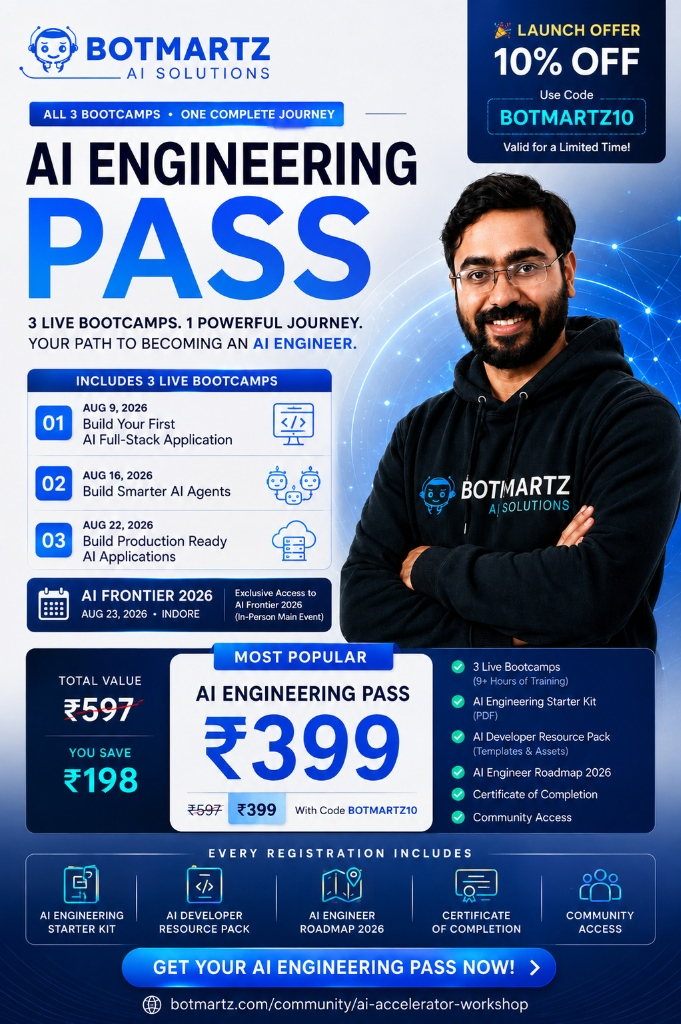
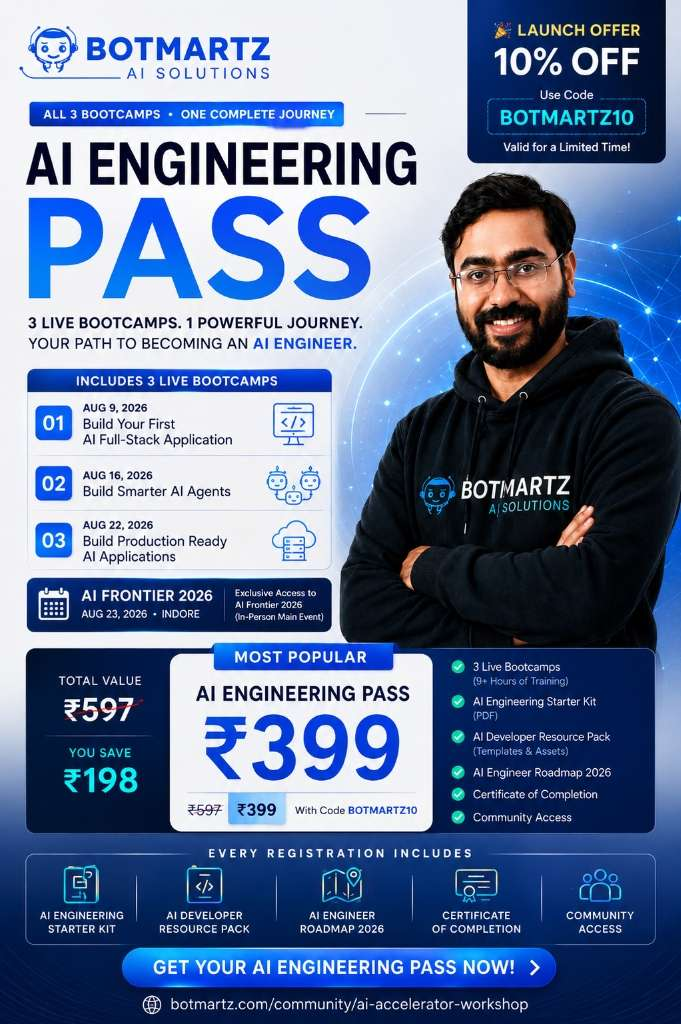
fix: optimize OpenGraph image format, 1200x630 resolution under 100KB, add secureUrl and version query for immediate WhatsApp link preview refresh

diff --git a/app/community/ai-accelerator-workshop/page.tsx b/app/community/ai-accelerator-workshop/page.tsx
@@ -15,13 +15,24 @@ export const metadata: Metadata = {
     title: "AI Accelerator Workshop | Botmartz",
     description: "Join the live engineering workshops leading up to AI Frontier 2026. Build production-ready AI applications.",
     url: "https://www.botmartz.com/community/ai-accelerator-workshop",
+    siteName: "Botmartz AI Solutions",
     type: "website",
     images: [
       {
-        url: "https://www.botmartz.com/ai-engineering-pass-banner.jpg",
+        url: "https://www.botmartz.com/ai-engineering-pass-og.jpg?v=2",
+        secureUrl: "https://www.botmartz.com/ai-engineering-pass-og.jpg?v=2",
         width: 1200,
         height: 630,
+        type: "image/jpeg",
         alt: "AI Engineering Pass Poster | Botmartz",
+      },
+      {
+        url: "https://www.botmartz.com/ai-engineering-pass-banner.jpg?v=2",
+        secureUrl: "https://www.botmartz.com/ai-engineering-pass-banner.jpg?v=2",
+        width: 800,
+        height: 1200,
+        type: "image/jpeg",
+        alt: "AI Engineering Pass Full Poster | Botmartz",
       },
     ],
   },
@@ -29,7 +40,7 @@ export const metadata: Metadata = {
     card: "summary_large_image",
     title: "AI Accelerator Workshop | Botmartz",
     description: "Join the live engineering workshops leading up to AI Frontier 2026. Build production-ready AI applications.",
-    images: ["https://www.botmartz.com/ai-engineering-pass-banner.jpg"],
+    images: ["https://www.botmartz.com/ai-engineering-pass-og.jpg?v=2"],
   },
   alternates: {
     canonical: "https://www.botmartz.com/community/ai-accelerator-workshop",

diff --git a/app/community/ai-accelerator-workshop/[slug]/page.tsx b/app/community/ai-accelerator-workshop/[slug]/page.tsx
@@ -26,12 +26,15 @@ export async function generateMetadata({ params }: { params: Promise<{ slug: str
       title,
       description,
       url: `https://www.botmartz.com/community/ai-accelerator-workshop/${resolvedParams.slug}`,
+      siteName: 'Botmartz AI Solutions',
       type: 'website',
       images: [
         {
-          url: 'https://www.botmartz.com/ai-engineering-pass-banner.jpg',
+          url: 'https://www.botmartz.com/ai-engineering-pass-og.jpg?v=2',
+          secureUrl: 'https://www.botmartz.com/ai-engineering-pass-og.jpg?v=2',
           width: 1200,
           height: 630,
+          type: 'image/jpeg',
           alt: title,
         },
       ],
@@ -40,7 +43,7 @@ export async function generateMetadata({ params }: { params: Promise<{ slug: str
       card: 'summary_large_image',
       title,
       description,
-      images: ['https://www.botmartz.com/ai-engineering-pass-banner.jpg'],
+      images: ['https://www.botmartz.com/ai-engineering-pass-og.jpg?v=2'],
     },
     alternates: {
       canonical: `https://www.botmartz.com/community/ai-accelerator-workshop/${resolvedParams.slug}`,
